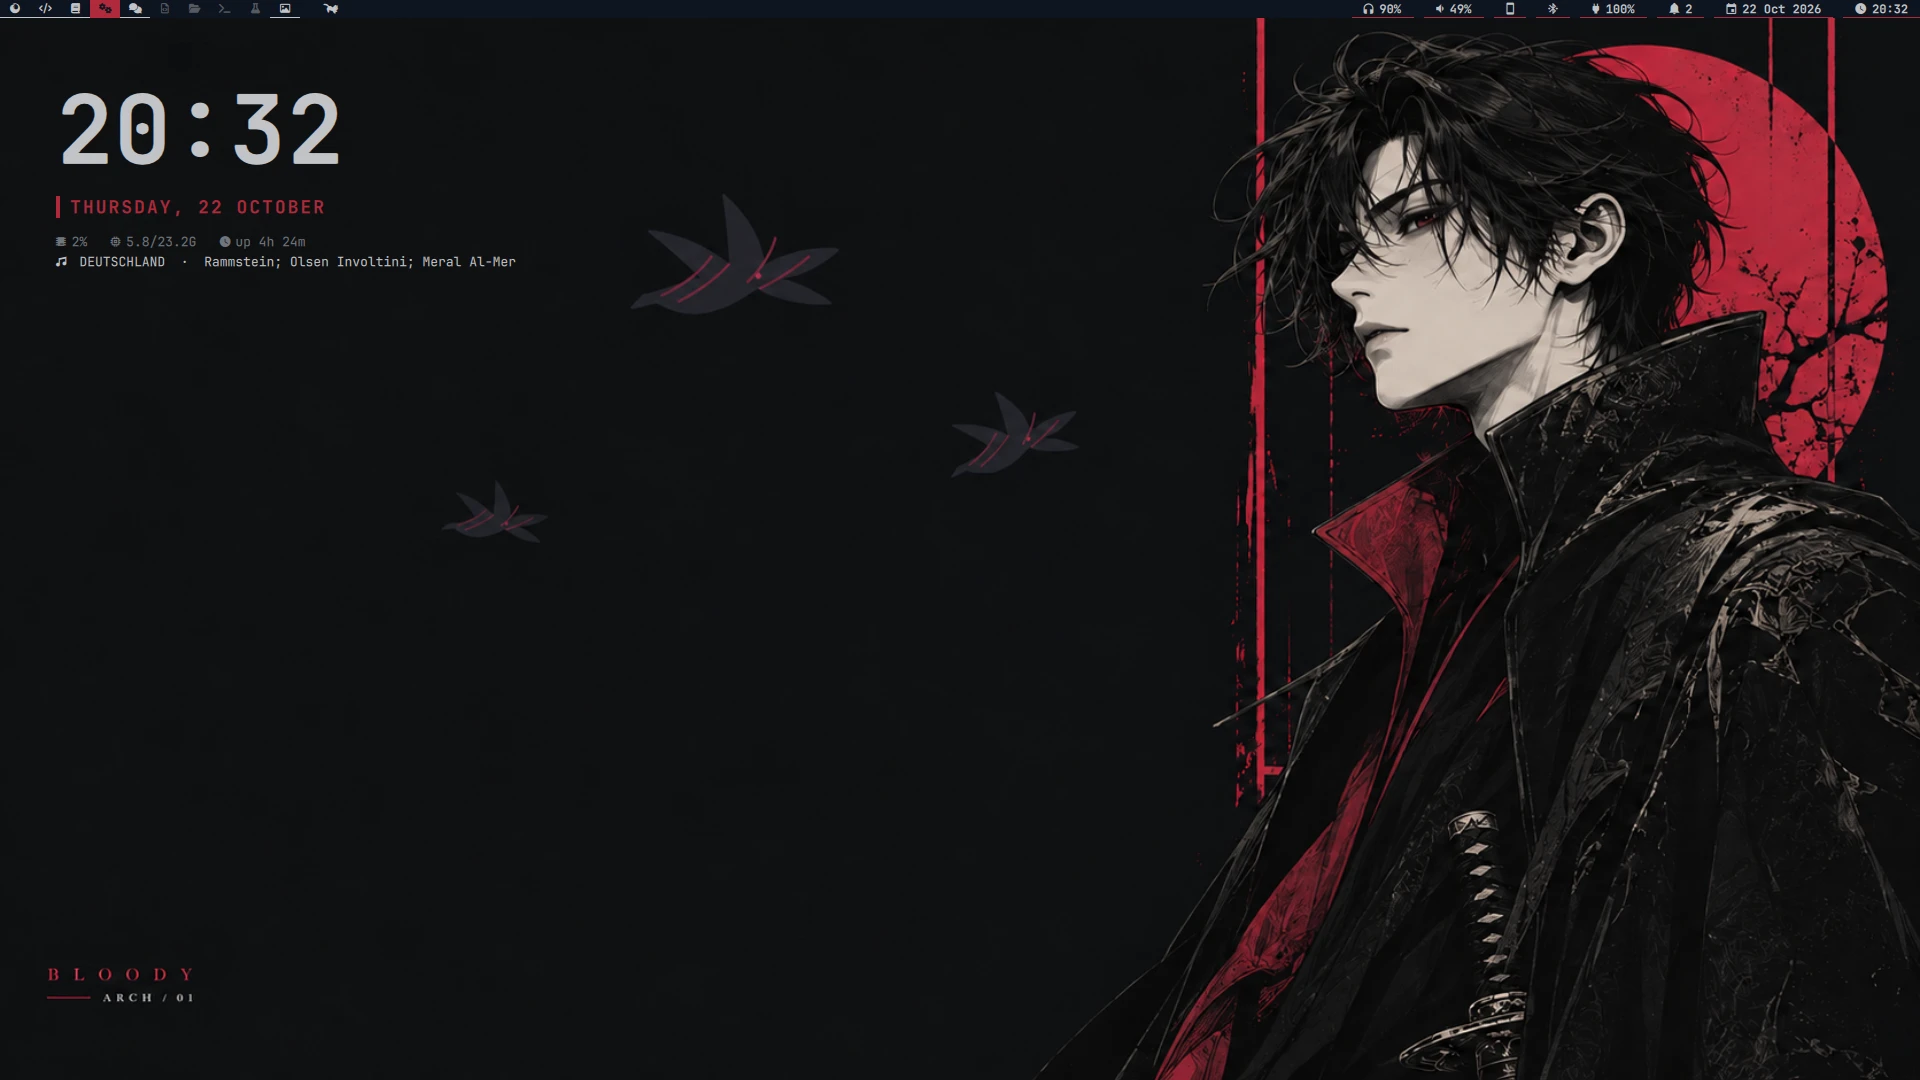
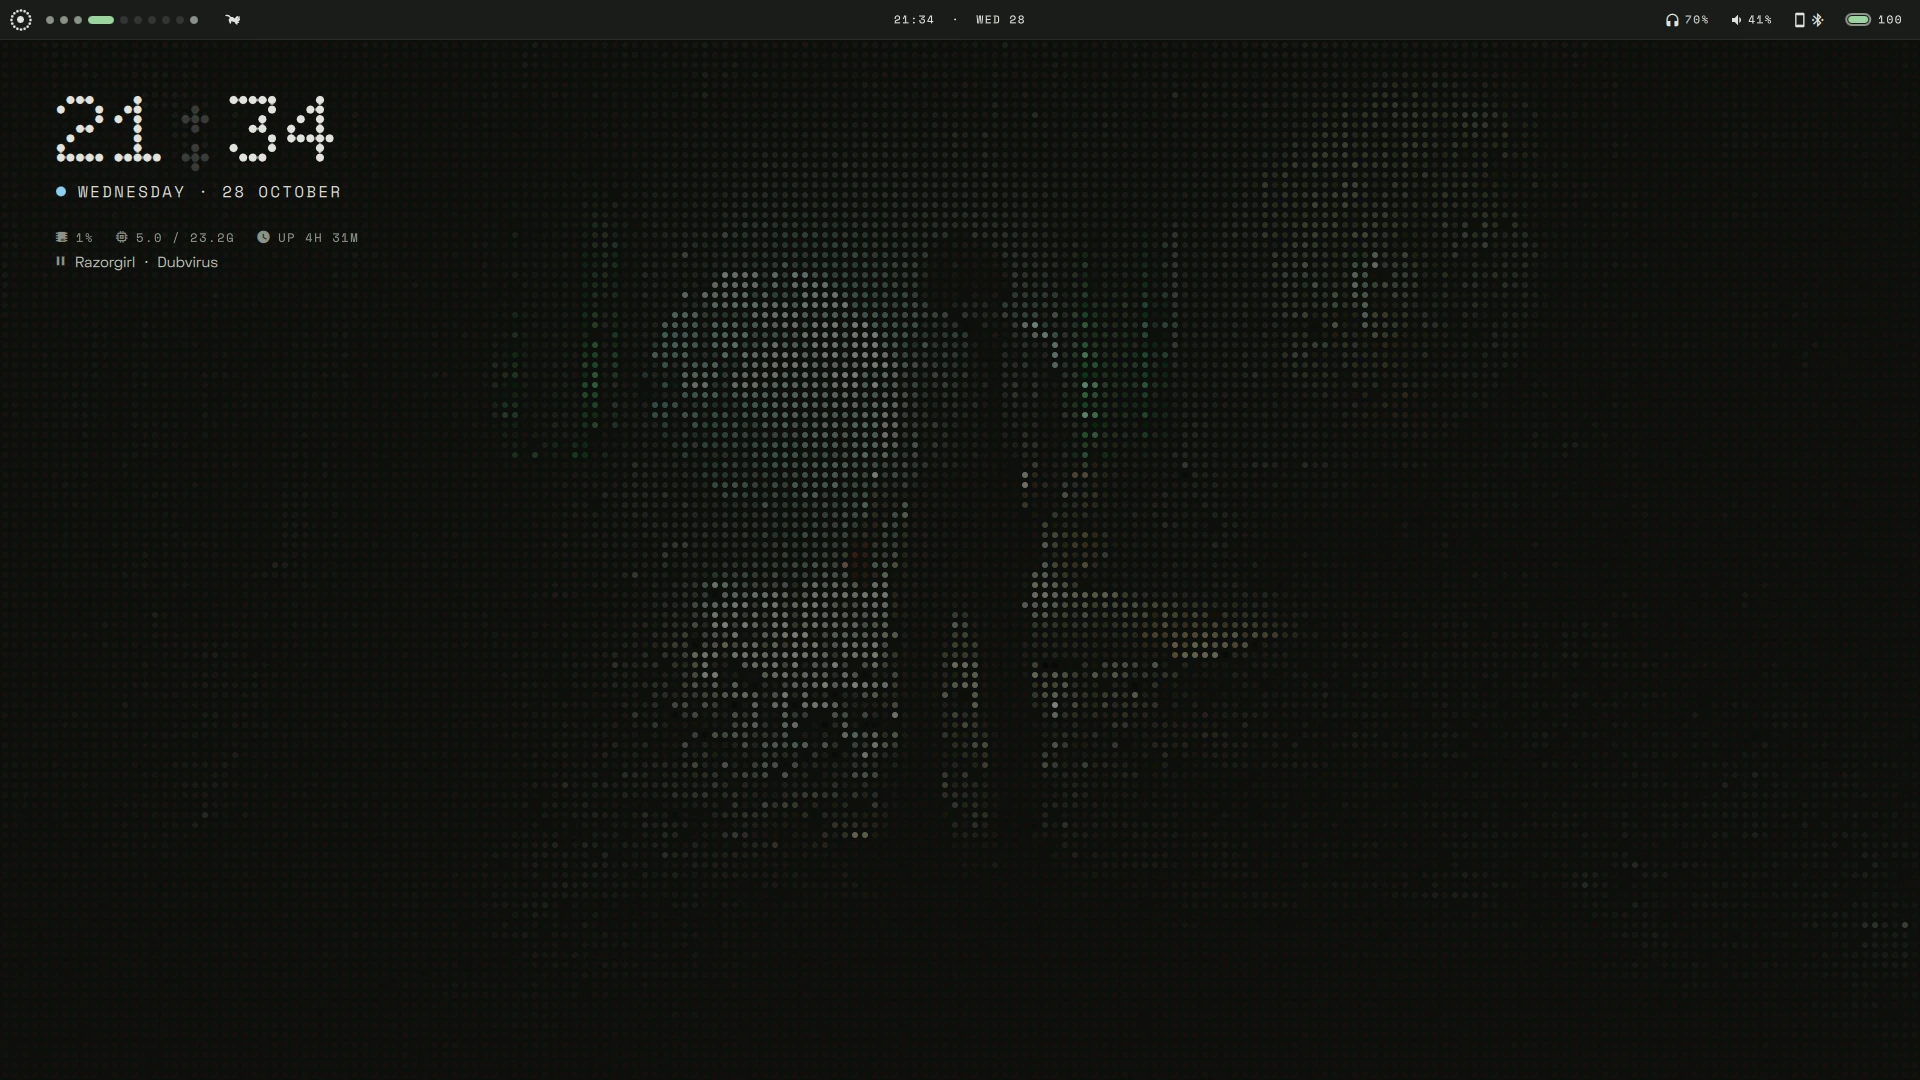
README: new aurora screenshots

diff --git a/README.md b/README.md
@@ -6,8 +6,9 @@ My desktop: **Arch Linux + Hyprland** (Lua config) + **aurora**, a custom Quicks
 notifications, OSD, dock), themed live from the wallpaper with **matugen** and deployed with **GNU stow**.
 
 ## aurora
-One shell instead of waybar, dunst, wlogout, fuzzel and a pile of scripts. Everything below is themed from the
-current wallpaper.
+One shell instead of waybar, dunst, wlogout, fuzzel and a pile of scripts, in a Nothing OS style (Doto dot-matrix type,
+pills, LED dots; after [glyph-rice](https://github.com/Nebelung-cloud/glyph-rice)) with Material You colours: everything
+below is themed from the current wallpaper, which aurora draws itself as mono dots, colour dots or the plain photo.
 
 <table>
   <tr>
@@ -20,7 +21,7 @@ current wallpaper.
     <td><img src="assets/aurora-runner.webp" alt="runner"><br>
       <sub><b>Runner</b> (<kbd>Super</kbd>+<kbd>R</kbd>) · apps, scripts, calc, shell; also a dmenu for scripts</sub></td>
     <td><img src="assets/aurora-wallpicker.webp" alt="wallpaper picker"><br>
-      <sub><b>Wallpaper picker</b> · folders, search, re-themes everything through matugen</sub></td>
+      <sub><b>Wallpaper picker</b> · live full-screen preview, folders, search, vim keys, three looks; re-themes everything through matugen</sub></td>
   </tr>
   <tr>
     <td><img src="assets/aurora-chars.webp" alt="glyph picker"><br>
